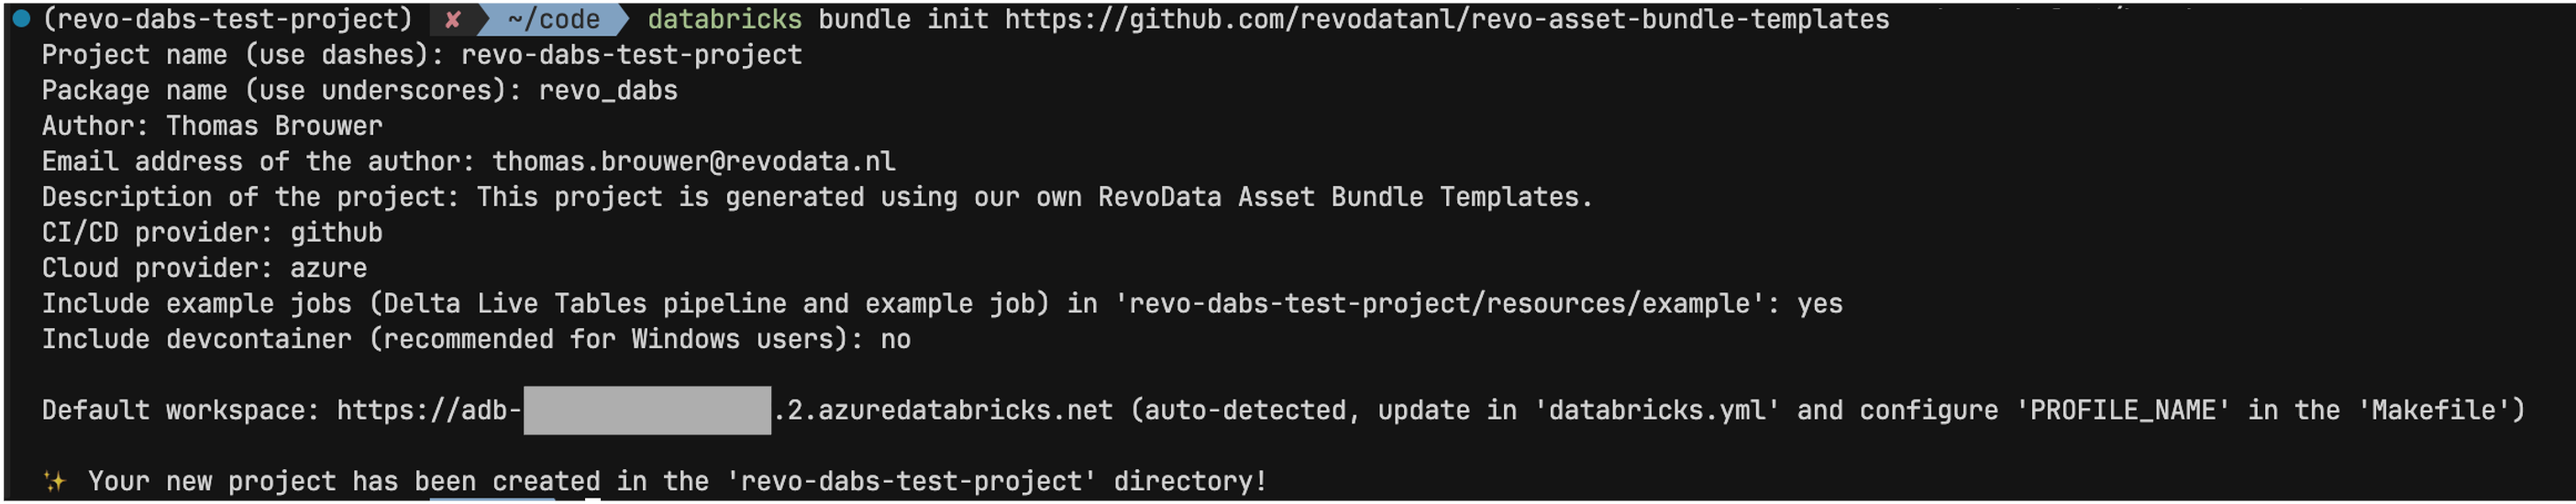
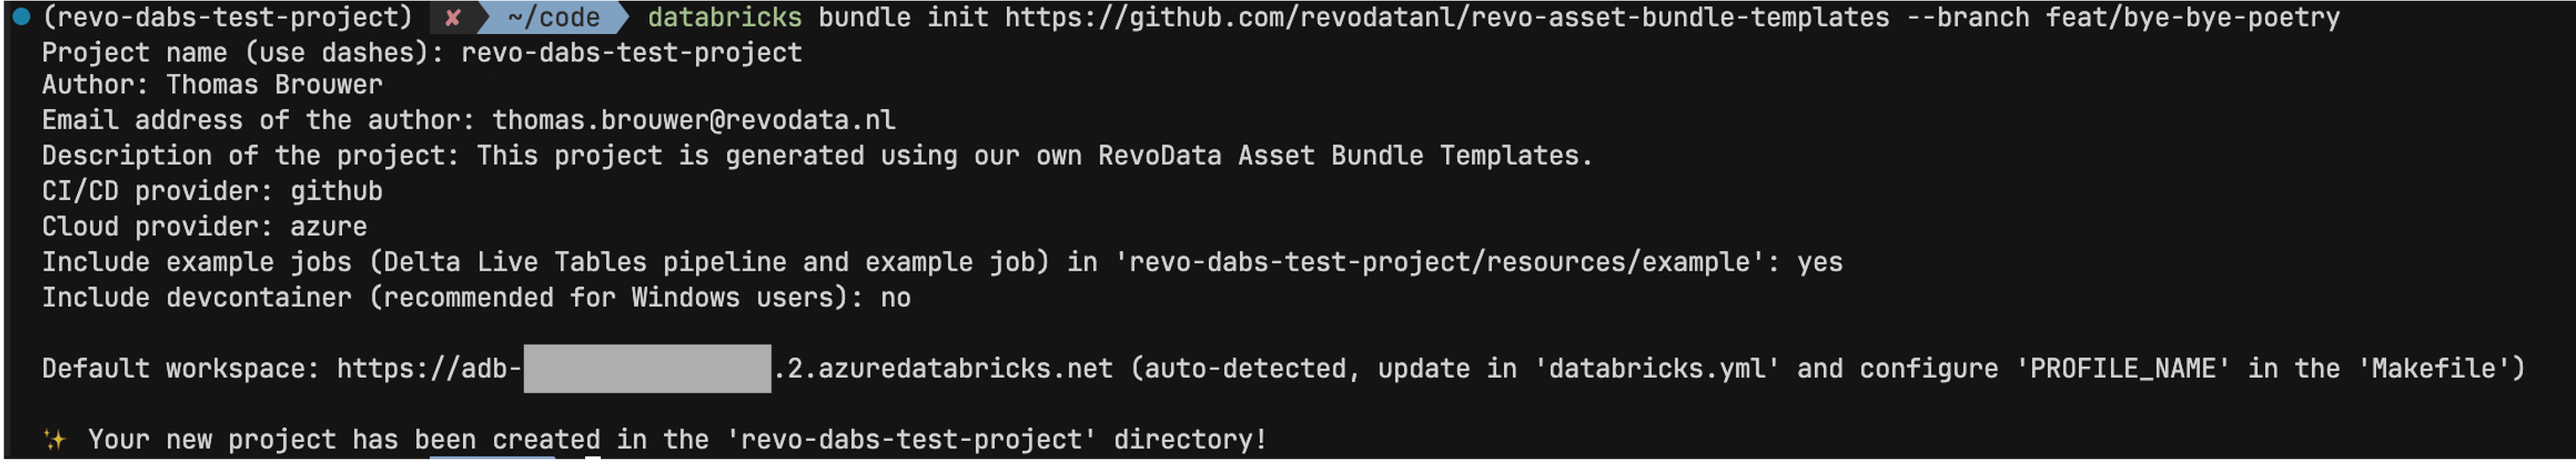
feat: remove package_name from the bundle initialization parameter
Now, the package name is generated automatically from the project name. Dashes are transformed into underscores.

diff --git a/README.md b/README.md
@@ -47,13 +47,14 @@ This template solves common pain points in Databricks project setup:
     | Parameter | Description | Example |
     |-----------|-------------|---------------------|
     | `project_name` | Name of the project (usually the same as the repository name) | `revo-dabs-test-project` |
-    | `package_name` | Name of the package. Import functions from the package with `from <package_name> import <function_name>` | `revo_dabs` |
     | `author` | Name of the author | `Thomas Brouwer` |
     | `email` | Email address of the author | `thomas.brouwer@revodata.nl` |
     | `project_description` | Brief description of the project | `This project is generated using our own RevoData Asset Bundle Templates.` |
     | `cicd_provider` | CI/CD provider | `github/azure` |
     | `cloud_provider` | Cloud provider | `azure/aws` |
     | `include_example_jobs` | Whether to include example pipelines and jobs | `yes/no` |
+
+> Previously, specifying a `package_name` was required. The `package_name` is now automatically generated from the `project_name` by replacing dashes (`-`) with underscores (`_`) following Python package naming conventions.
 
 ## Developing the Template
 

diff --git a/CLAUDE.md b/CLAUDE.md
@@ -140,4 +140,4 @@ Generated projects contain CI/CD pipelines with parity between GitHub Actions an
 Templates use Go template syntax with conditional logic:
 - `{{if eq .cicd_provider "github"}}` - Include GitHub-specific files
 - `{{if eq .include_example_jobs "yes"}}` - Include example jobs and notebooks
-- `{{.project_name}}` and `{{.package_name}}` - Parameter substitution
+- `{{.project_name}}` and `{{template "package_name" .}}` - Parameter substitution
